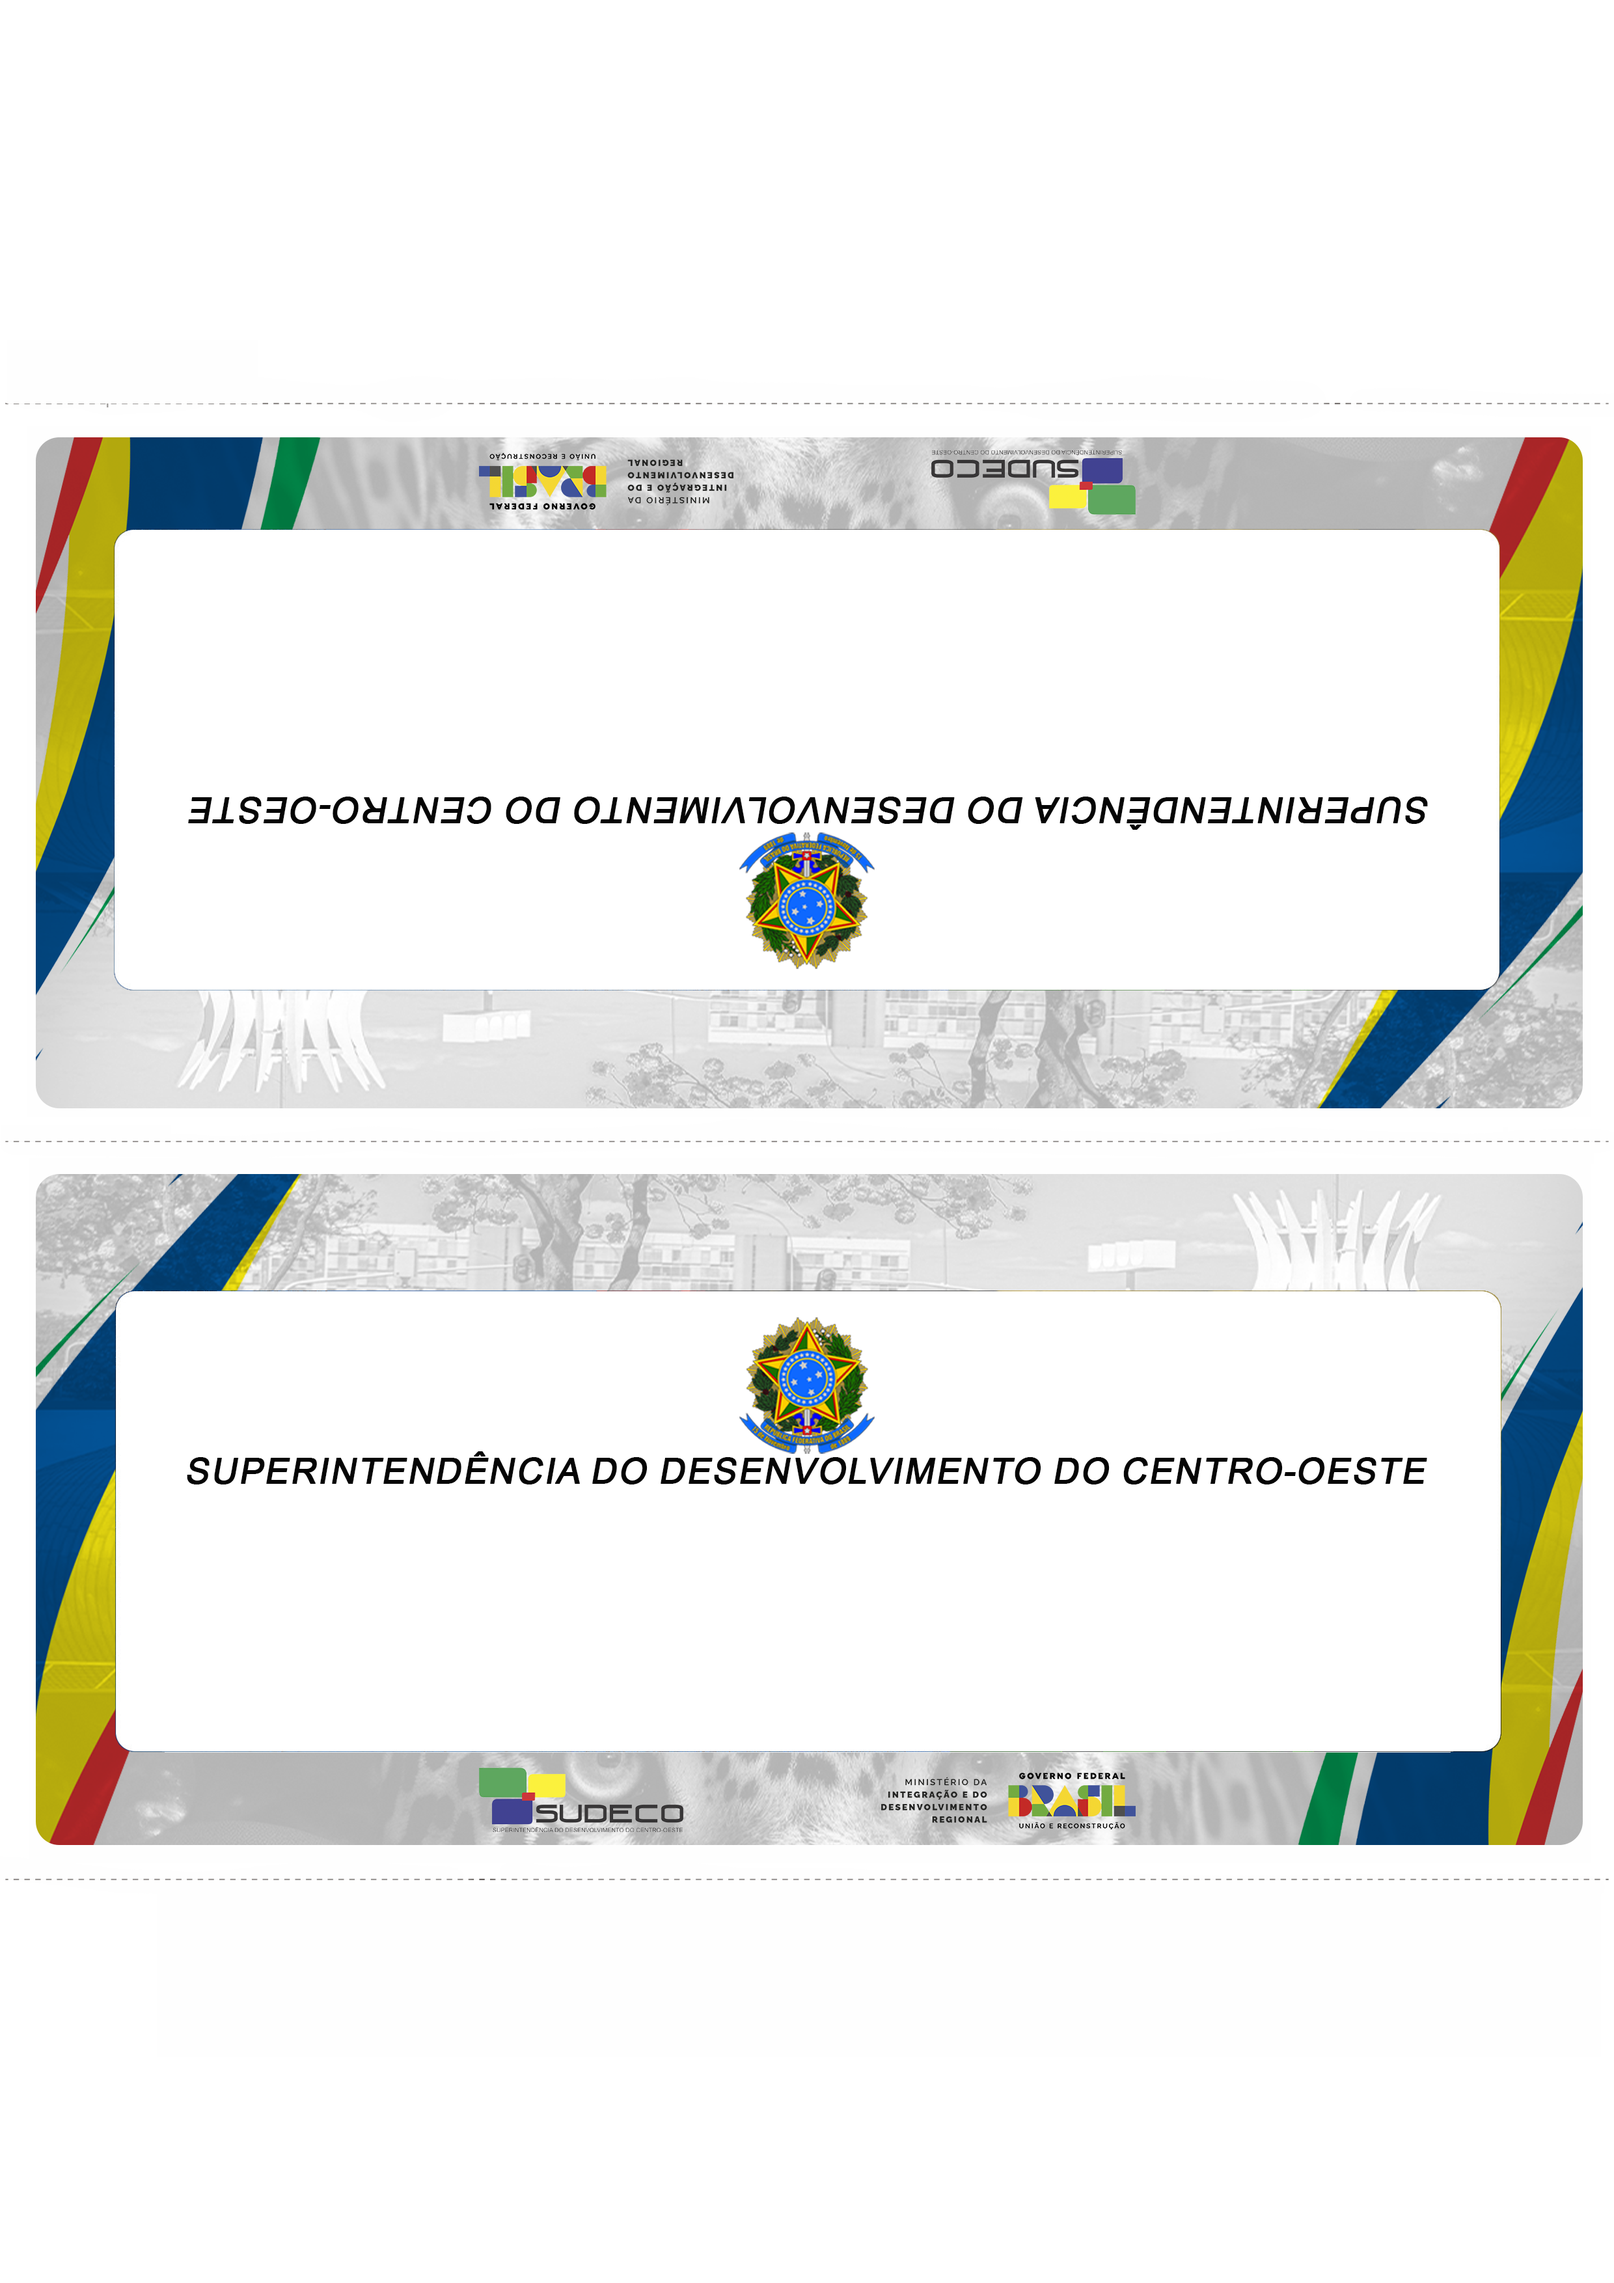
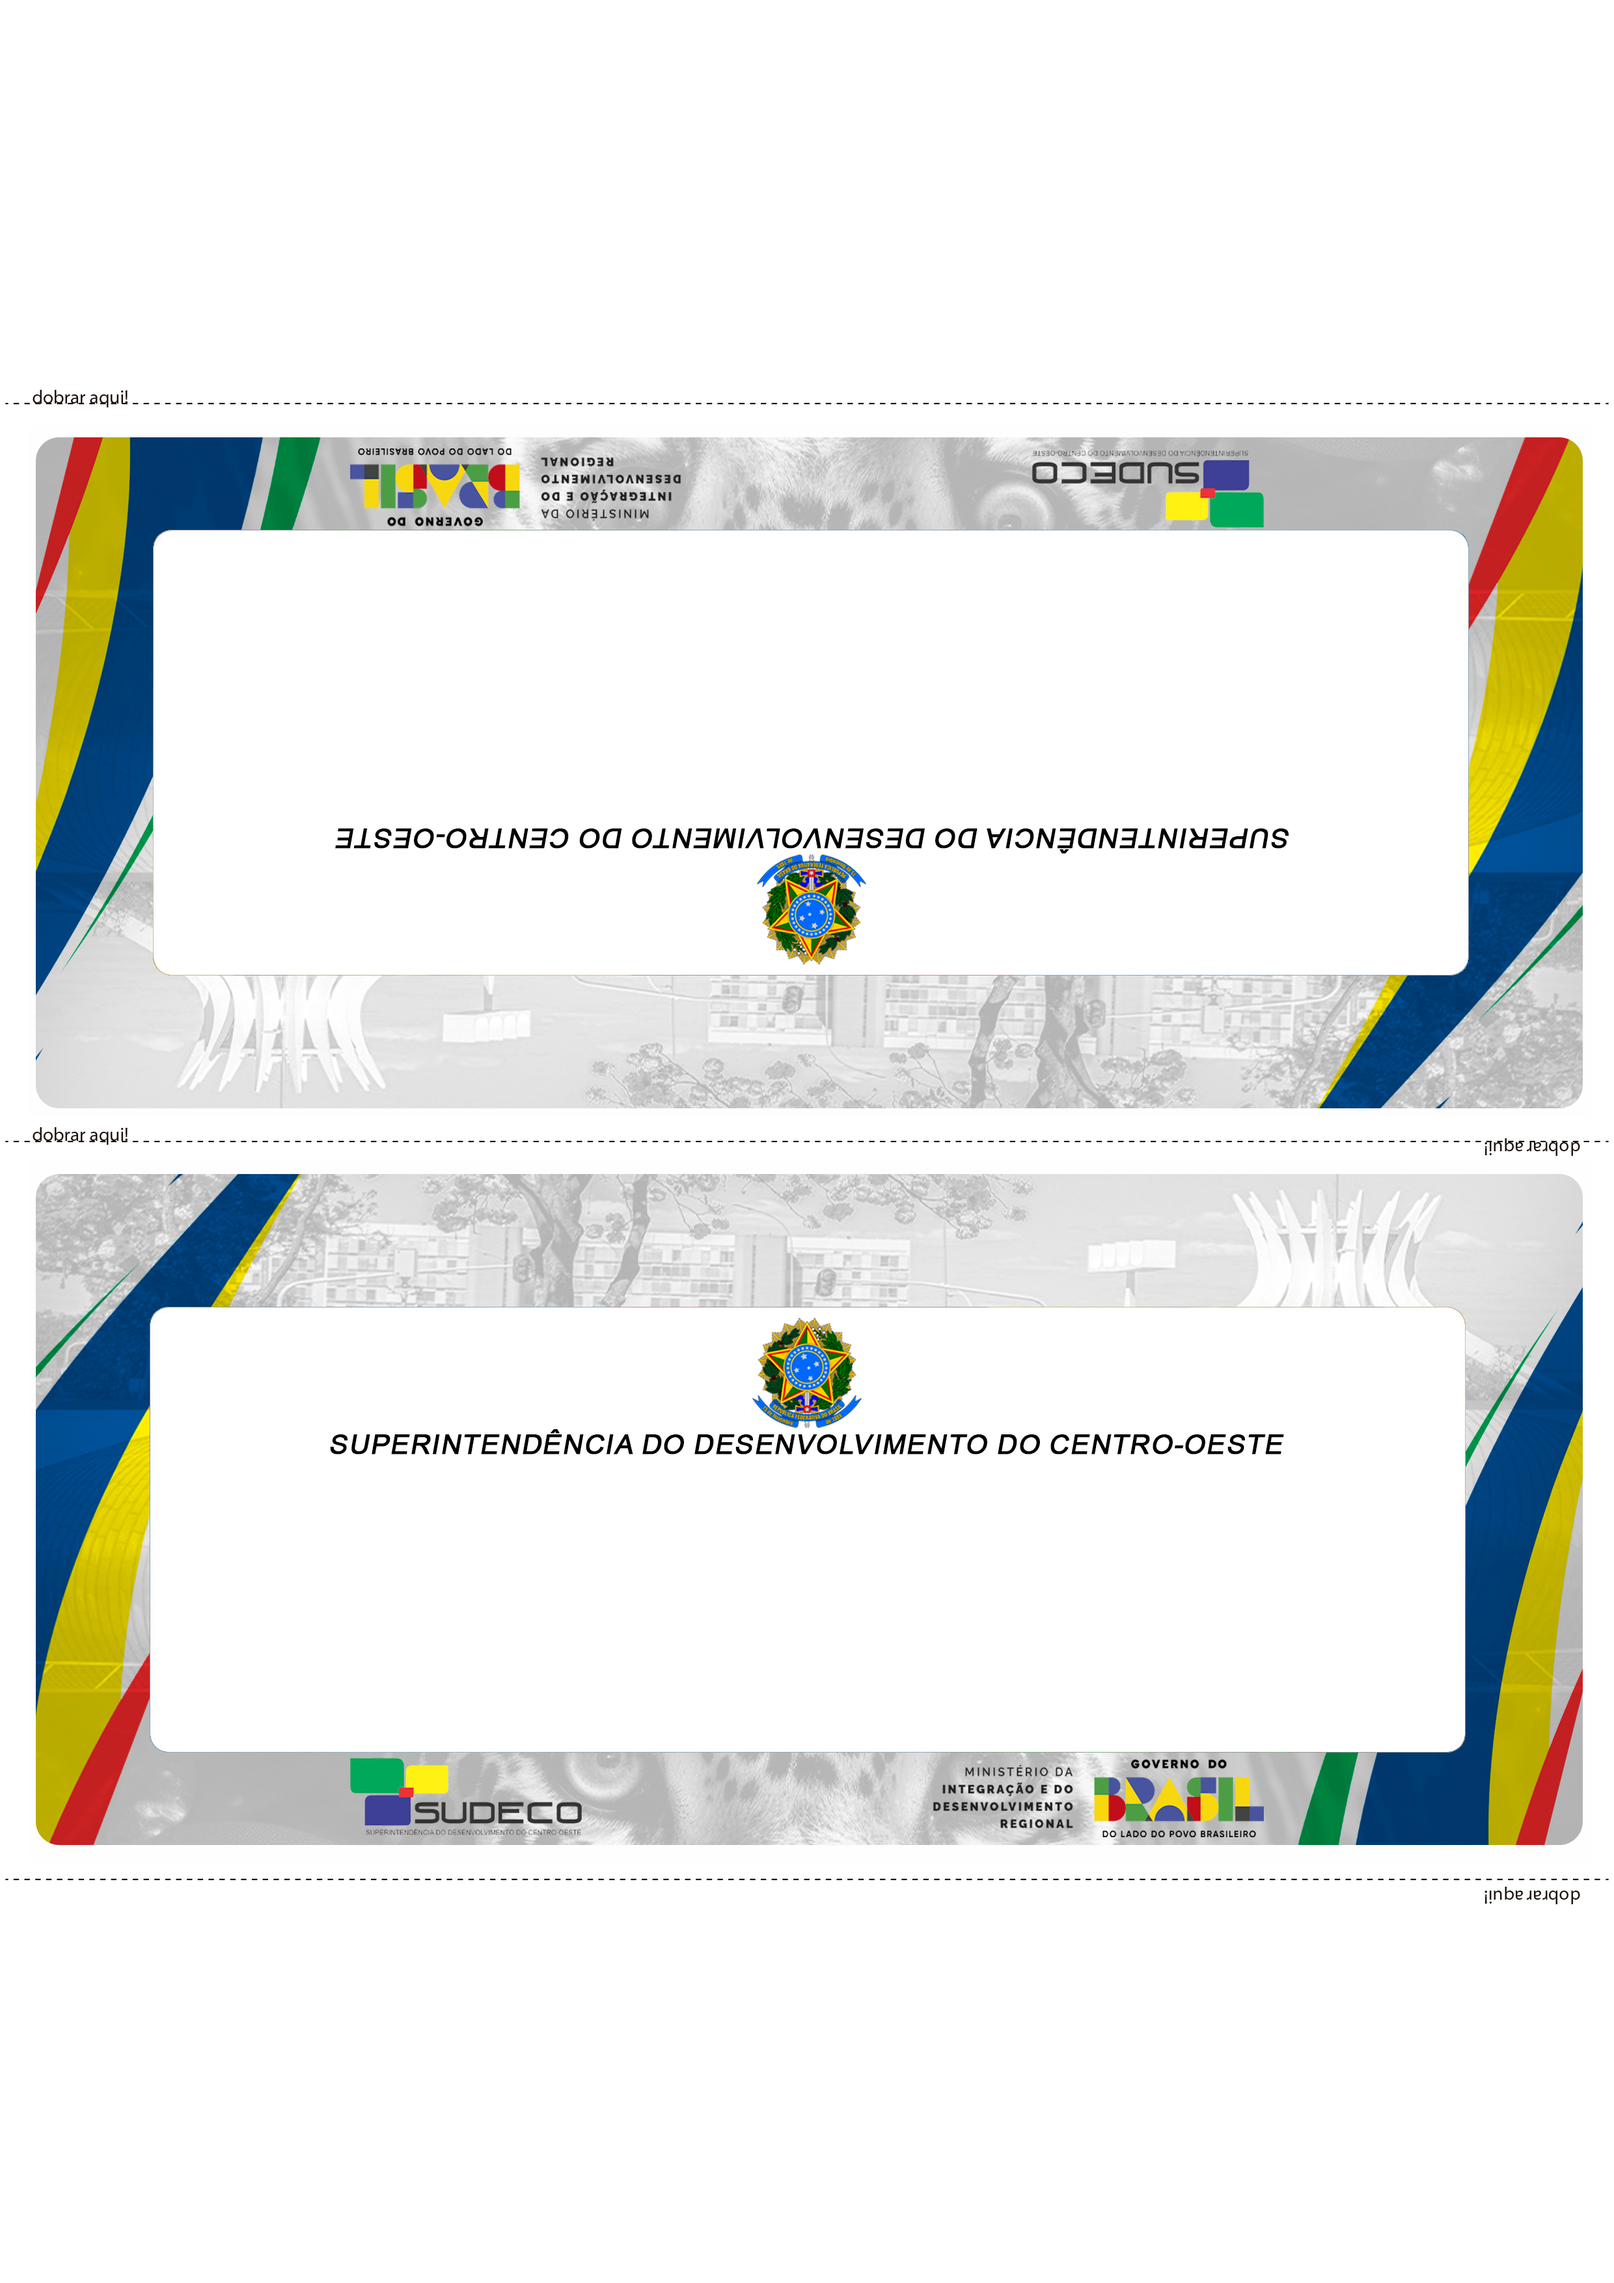
atualização do slogan do gov federal na arte dos prismas

diff --git a/service.js b/service.js
@@ -17,7 +17,7 @@ function trocaImagem() {
             img.style.width = '210mm'
             img.style.height = '296mm'
         } else {
-            img.style.backgroundImage = "url('./assets/papel/big.jpeg')"; // Fundo prisma grande
+            img.style.backgroundImage = "url('./assets/papel/big.png')"; // Fundo prisma grande
             img.style.width = '296mm'
             img.style.height = '210mm'
         }
